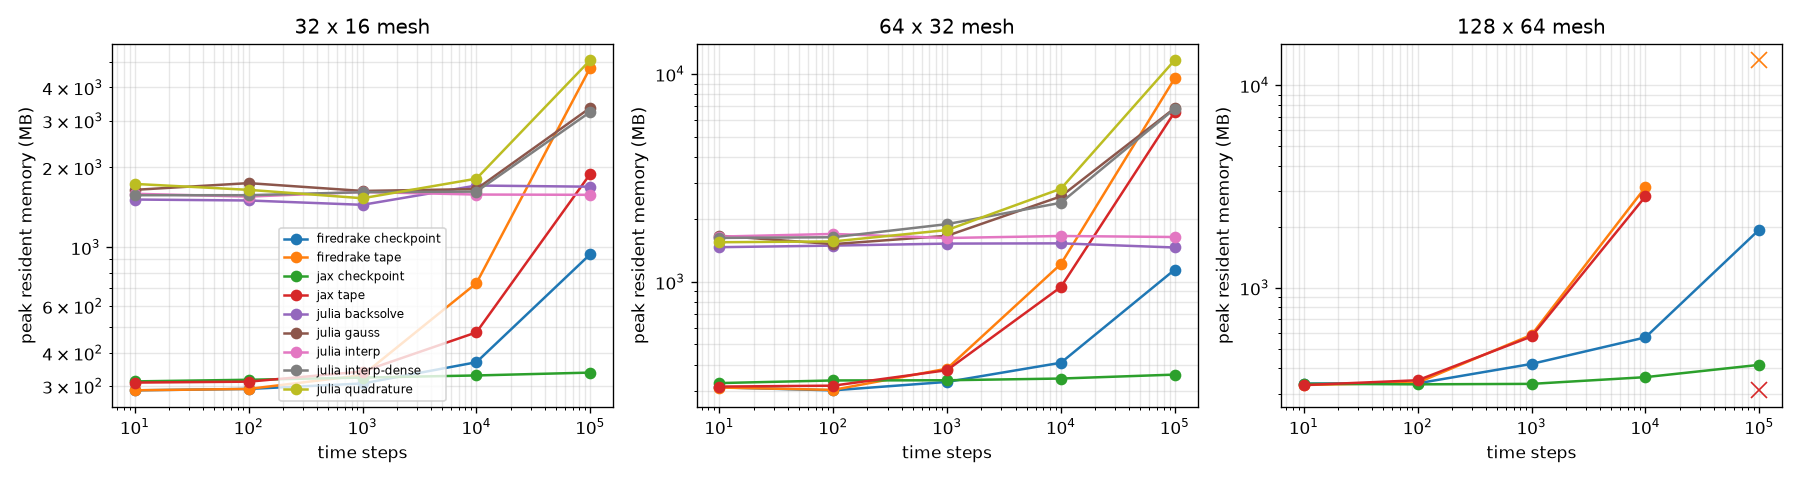
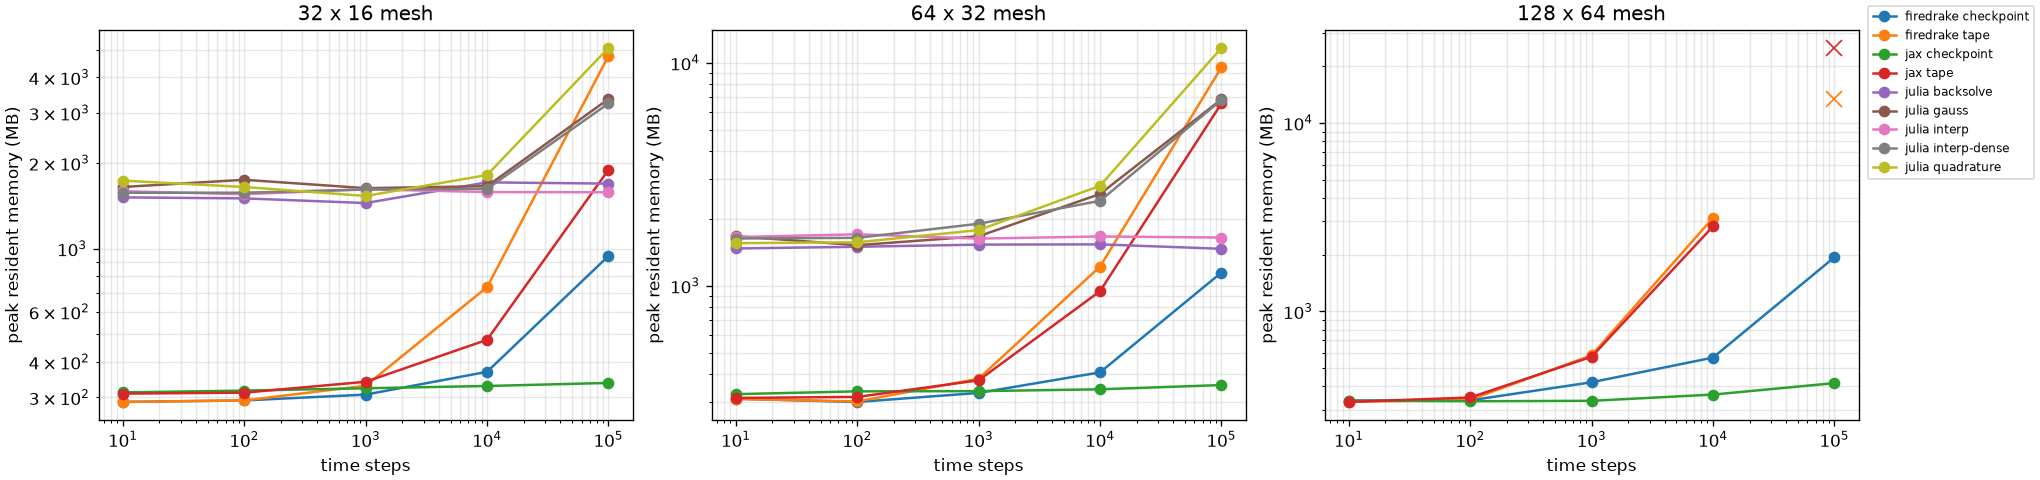
Revolve memory as slopes after an annotated warm-up; plot XLA refusals at the size asked for; units and ranges in the results text

diff --git a/spike/summarise.py b/spike/summarise.py
@@ -49,14 +49,20 @@ def discrete(nx, ny, steps):
     return _exact[(nx, ny, steps)]
 
 
+def refused_mb(d):
+    """The size XLA asked for when it refused a run up front (it never reached that peak), else None."""
+    m = re.search(r"Out of memory allocating (\d+) bytes", str(d.get("error", "")))
+    return int(m.group(1)) / 2**20 if m else None
+
+
 def mem_cell(d):
     if d is None:
         return "-"
     pk = peak(d)
     if not d.get("ok"):
         e = str(d.get("error", ""))
-        if (m := re.search(r"Out of memory allocating (\d+) bytes", e)):  # XLA refuses up front, with the size
-            return f"out of memory: needs {int(m.group(1)) / 2**30:.1f} GB"
+        if (need := refused_mb(d)) is not None:
+            return f"out of memory: needs {need / 1024:.1f} GB"
         why = "killed" if "killed" in e else "failed"
         return f"{why}{f' at {pk / 1024:.1f} GB' if pk else ''}"
     base = d.get("baseline_rss_mb")
@@ -105,7 +111,9 @@ for nx, ny in meshes:
             f"{e:.1e}" if (e := err(cases[k].get(s))) is not None else "-" for s in steps_all) + " |")
 
 if fdchecks:
-    lines += ["\n## Gradient against finite differences of the same backend's forward (16 x 8 mesh, 100 steps)\n",
+    runs = {(d["nx"], d["ny"], d["steps"]) for d in fdchecks.values() if "nx" in d}  # a killed run's stub has none
+    where = "; ".join(f"{nx} x {ny} mesh, {st} steps" for nx, ny, st in sorted(runs))
+    lines += [f"\n## Gradient against finite differences of the same backend's forward ({where})\n",
               "| backend | strategy | grad . d | central FD | relative difference |", "|---|---|---|---|---|"]
     for (b, s), d in sorted(fdchecks.items()):
         if d.get("ok") and d.get("fd_dir"):
@@ -156,7 +164,8 @@ try:
                                 ("err", "relative error vs discrete exact dJ (triangle: > 1e3)",
                                  "gradient_error.png"),
                                 ("time", "gradient wall time (s)", "time.png")):
-        fig, axes = plt.subplots(1, len(meshes), figsize=(5 * len(meshes), 4), squeeze=False)
+        fig, axes = plt.subplots(1, len(meshes), figsize=(5 * len(meshes) + 2, 4), squeeze=False,
+                                 layout="constrained")
         for ax, (nx, ny) in zip(axes[0], meshes):
             for k in sorted(cases):
                 if (k[2], k[3]) != (nx, ny):
@@ -164,14 +173,14 @@ try:
                 xs, ys, xk, yk = [], [], [], []
                 for s, d in sorted(cases[k].items()):
                     if what == "mem":
-                        v = peak(d)
+                        v = refused_mb(d) or peak(d)  # a refusal is drawn at the size it asked for
                         (xs if d.get("ok") else xk).append(s)
                         (ys if d.get("ok") else yk).append(v if v else math.nan)
                     elif what == "err" and d.get("ok") and "dJ_uniform" in d:
                         xs.append(s); ys.append(max(abs(d["dJ_uniform"] / discrete(nx, ny, s) - 1), 1e-16))
                     elif what == "time" and d.get("ok") and "warm_s" in d:
                         xs.append(s); ys.append(d["warm_s"])
-                # A blown-up error (backsolve reaches 1e289) breaks log-axis ticks: draw it at the cap
+                # A blown-up error (backsolve's 5.3e289) breaks log-axis ticks: draw it at the cap
                 over = [i for i, y in enumerate(ys) if what == "err" and not (y <= CAP)]
                 ys = [CAP if i in over else y for i, y in enumerate(ys)]
                 line, = ax.loglog(xs, ys, "o-", label=f"{k[0]} {k[1]}")
@@ -184,8 +193,7 @@ try:
             ax.set_xlabel("time steps")
             ax.set_ylabel(ylabel)
             ax.grid(True, which="both", alpha=0.3)
-        axes[0][0].legend(fontsize=7)
-        fig.tight_layout()
+        fig.legend(*axes[0][0].get_legend_handles_labels(), loc="outside right upper", fontsize=7)
         fig.savefig(out / fname, dpi=120)
         plt.close(fig)
 except ImportError:

diff --git a/repro/pyadjoint_checkpoint_memory.py b/repro/pyadjoint_checkpoint_memory.py
@@ -1,17 +1,16 @@
 # Where pyadjoint's memory goes with and without Revolve checkpointing, on the spike's Firedrake backend.
 #
-#   for m in tape checkpoint checkpoint-gc; do
+#   for m in tape checkpoint checkpoint-gc; do for n in 1000 4000; do
 #     docker run --rm -v "$PWD":/work -w /work firedrakeproject/firedrake-vanilla-default:2026.10.0 \
-#       python3 repro/pyadjoint_checkpoint_memory.py $m 4000
-#   done
+#       python3 repro/pyadjoint_checkpoint_memory.py $m $n
+#   done; done
 #
-# One mode per process, since the peak is the process's high-water mark. It prints the peak RSS growth over a
-# compiled 5-step run, the gradient, and how many tape variables still hold a stored state or an adjoint value after
-# the derivative. A third argument `trace` adds the Python heap's share (tracemalloc, which inflates the peak).
-# With Revolve (ceil(sqrt(steps)) snapshots) no per-step state is held, yet memory still grows with the step count:
-# the tape records three blocks per step, and the reverse sweep's garbage waits for the collector
-# (gc_timestep_frequency trades that for time). The default tape holds every step's state and, after the
-# derivative, an adjoint value for every step as well.
+# One mode and step count per process, since the peak is the process's high-water mark, measured over a 10-step
+# annotated derivative in the same mode (so compilation is outside it). The growth has a part that does not depend
+# on the step count, so the cost per step is the slope between two step counts. It also prints how many tape
+# variables still hold a stored state or an adjoint value after the derivative; a third argument `trace` adds the
+# Python heap (tracemalloc, which inflates the peak, so take peaks from runs without it).
+# With Revolve (ceil(sqrt(steps)) snapshots) no per-step state is held, yet memory still grows with the step count.
 
 import gc
 import math
@@ -33,25 +32,35 @@ from spike.problem import Problem  # noqa: E402
 mode = sys.argv[1]  # tape, checkpoint, or checkpoint-gc (collect garbage every 50 steps)
 steps = int(sys.argv[2]) if len(sys.argv) > 2 else 4000
 h = Heat(Problem(nx=32, ny=16))
-h.run(Function(h.D).assign(1.0), 5)
 
 
 def peak_mb():
     return resource.getrusage(resource.RUSAGE_SELF).ru_maxrss / 1024
 
 
-tape = get_working_tape()
-tape.clear_tape()
-gc.collect()
-base = peak_mb()
-rho = Function(h.D).assign(1.0)
-stepper = None
-if mode.startswith("checkpoint"):
-    kw = {"gc_timestep_frequency": 50} if mode == "checkpoint-gc" else {}
-    tape.enable_checkpointing(MultistageCheckpointSchedule(steps, math.ceil(math.sqrt(steps)), 0), **kw)
-    stepper = tape.timestepper
-elif mode != "tape":
+if mode not in ("tape", "checkpoint", "checkpoint-gc"):
     raise ValueError(mode)
+
+
+def start(n):
+    """A clean tape for n steps in this mode; returns the control and the time stepper."""
+    tape.clear_tape()
+    gc.collect()
+    if mode.startswith("checkpoint"):
+        kw = {"gc_timestep_frequency": 50} if mode == "checkpoint-gc" else {}
+        tape.enable_checkpointing(MultistageCheckpointSchedule(n, math.ceil(math.sqrt(n)), 0), **kw)
+        return Function(h.D).assign(1.0), tape.timestepper
+    return Function(h.D).assign(1.0), None
+
+
+tape = get_working_tape()
+rho, stepper = start(10)  # warm-up: compiles the forward and adjoint forms
+continue_annotation()
+J = h.run(rho, 10, stepper)
+pause_annotation()
+ReducedFunctional(J, Control(rho)).derivative()
+rho, stepper = start(steps)
+base = peak_mb()
 trace = sys.argv[3:] == ["trace"]
 if trace:
     tracemalloc.start()

diff --git a/docs/log.md b/docs/log.md
@@ -48,16 +48,19 @@
 ## 2026-11-20
 
 - CI run 1 (results/ci-run-1, run 44586316772): every case ran; the summary job failed while plotting because
-  BacksolveAdjoint's error reached 5e289 at 1e5 steps on 32 x 16 and broke matplotlib's log-axis ticks (errors above
-  1e3 are now drawn as a triangle at the cap). Full tape at 1e5 steps: JAX +1.6 GB (32 x 16) and +6.3 GB (64 x 32),
-  and on 128 x 64 XLA refuses up front (it asks for 26.2e9 bytes); pyadjoint +4.5 and +9.2 GB, killed at 13 GB on
-  128 x 64. JAX checkpointing within +102 MB at 1.6-1.8 times the tape's time. Gradients of JAX and pyadjoint agree
-  with the exact discrete gradient to 2e-11 or better everywhere.
-- pyadjoint's Revolve does not give flat memory: +0.66, +0.86 and +1.6 GB at 1e5 steps on the three meshes (against
-  +4.5, +9.2 and over 13 GB for its tape), at 2.2-3.3 times the tape's time. repro/pyadjoint_checkpoint_memory.py
-  (4000 steps, 32 x 16, Firedrake 2026.10.0, pyadjoint 2026.10.0, checkpoint_schedules 1.0.4): with Revolve 3 of
-  the tape's 12005 variables hold a state after the derivative (the tape: 8004, plus 8002 adjoint values), yet the
-  peak grows by 12.5 KB/step (tape 47 KB/step). The tape still records three blocks per step (about 5 KB/step of
-  Python objects, by tracemalloc), and the reverse sweep's garbage waits for the collector: gc_timestep_frequency=50
-  brings the growth to 7.5 KB/step at twice the time, with the same gradient to 13 digits. So the time-dependent
-  benchmark should report memory against step count for checkpointed runs too, not assume they are flat.
+  BacksolveAdjoint's error reached 5.3e289 at 1e5 steps on 32 x 16 and broke matplotlib's log-axis ticks (errors
+  above 1e3 are now drawn as a triangle at the cap). Full tape at 1e5 steps: JAX +1.5 GB (32 x 16) and +6.1 GB
+  (64 x 32), and on 128 x 64 XLA refuses up front (it asks for 26216674456 bytes, 24.4 GB); pyadjoint +4.4 and
+  +9.0 GB, killed at 13 GB on 128 x 64. JAX checkpointing stays within +102 MB on every mesh, at 1.6-1.8 times the
+  tape's time at 1e5 steps on the two meshes where the tape finished. Gradients of JAX and pyadjoint agree with the
+  exact discrete gradient to 2.1e-11 or better everywhere. (GB here is 1024 MB, as in the tables.)
+- pyadjoint's Revolve does not give flat memory: +0.64, +0.83 and +1.6 GB at 1e5 steps on the three meshes
+  (against +4.4, +9.0 and over 13 GB for its tape), at 2.2-3.3 times the tape's time; on 32 x 16 it grows 6.5
+  KB/step from 1e4 to 1e5 steps. repro/pyadjoint_checkpoint_memory.py (32 x 16, Firedrake 2026.10.0, pyadjoint
+  2026.10.0, checkpoint_schedules 1.0.4; slopes between 1000 and 4000 steps, after a 10-step annotated warm-up):
+  with Revolve 3 of the tape's variables hold a state after the derivative, at any step count (the full tape:
+  every step's state and adjoint value), yet the peak grows 6.8 KB/step plus about 14 MB that does not depend on
+  the step count (full tape 45.7 KB/step). Collecting garbage every 50 steps (gc_timestep_frequency=50) removes the
+  fixed part and leaves 5.5 KB/step, at twice the time, with the same gradient to 13 digits; the Python heap then
+  grows 4.3 KB/step (tracemalloc), so most of what remains is the tape's three blocks per step, which no setting
+  here removes. The time-dependent benchmark should report memory against step count for checkpointed runs too.

diff --git a/README.md b/README.md
@@ -59,15 +59,20 @@ plots (the run's `summary` artifact). Saved runs go in `results/`.
 
 ## Results
 
-From CI run 1 ([results/ci-run-1/summary.md](results/ci-run-1/summary.md); notes in docs/log.md):
+From CI run 1 ([results/ci-run-1/summary.md](results/ci-run-1/summary.md); notes in docs/log.md; GB = 1024 MB):
 
-- A full tape grows linearly with the step count: at 1e5 steps JAX needs +1.6 GB on 32 x 16 and +6.3 GB on
-  64 x 32 and refuses 128 x 64 up front; pyadjoint needs +4.5 and +9.2 GB and is killed at 13 GB on 128 x 64.
-- JAX's checkpointing stays within +102 MB at 1.6-1.8 times the time. pyadjoint's Revolve stores no per-step state
-  but still grows (+0.7 to +1.6 GB at 1e5 steps, 2.2-3.3 times the time): its tape keeps three blocks per step and
-  the reverse sweep's garbage is collected late (repro/pyadjoint_checkpoint_memory.py).
-- JAX and pyadjoint match the exact discrete gradient to 2e-11 or better; SciMLSensitivity's continuous adjoints
-  are O(dt) off (1e-5 at 1e5 steps), BacksolveAdjoint is 89-100 % off and overflows at 1e5 steps, and the
-  checkpointed InterpolatingAdjoint re-solves its intervals adaptively (repro/sciml_checkpoint_resolve.jl).
+- A full tape grows linearly with the step count: at 1e5 steps JAX needs +1.5 GB on 32 x 16 and +6.1 GB on
+  64 x 32 and refuses 128 x 64 up front (it asks for 24.4 GB); pyadjoint needs +4.4 and +9.0 GB and is killed at
+  13 GB on 128 x 64.
+- JAX's checkpointing stays within +102 MB on every mesh (1.6-1.8 times the tape's time at 1e5 steps).
+  pyadjoint's Revolve stores no per-step state but still grows (+0.64 to +1.6 GB at 1e5 steps, 2.2-3.3 times the
+  time): its tape keeps three blocks per step, about 5 KB/step that garbage collection does not remove
+  (repro/pyadjoint_checkpoint_memory.py).
+- JAX and pyadjoint match the exact discrete gradient to 2.1e-11 or better; SciMLSensitivity's continuous adjoints
+  are O(dt) off (1e-5 to 2e-5 at 1e5 steps), and BacksolveAdjoint is 89-100 % off (5.3e289 at 1e5 steps on 32 x 16).
 - k(T): with one Newton iteration per step, unrolled differentiation is 7-22 times closer to the converged gradient
   than implicit differentiation; from three iterations both agree with it to 3e-14 or better.
+
+Separately, repro/sciml_checkpoint_resolve.jl shows that SciMLSensitivity's checkpointed InterpolatingAdjoint
+re-solves each checkpoint interval adaptively, ignoring a fixed dt: saving only the end state leaves its gradient
+about 0.7 % off at every step count. With checkpoints at isqrt(steps) times, as in the CI sweep, the effect is small.

diff --git a/results/ci-run-1/README.md b/results/ci-run-1/README.md
@@ -3,12 +3,13 @@
 [Run 44586316772](https://github.com/singhharsh1708/transient-heat-spike/actions/runs/44586316772), commit ce64b6d,
 2026-11-19, GitHub's `ubuntu-latest` CPU runners (4 cores, 16 GB), one process per case, killed at 13 GB.
 All 23 experiment jobs passed. The run's `summary` job failed while plotting: backsolve's 5e289 error broke the
-log axis (fixed in e9abd23). `summary.md` and the plots here were made from the run's artifacts by
-`python spike/summarise.py results/ci-run-1 results/ci-run-1`, which is the summary that job would have printed.
+log axis. `summary.md` and the plots here were made from the run's artifacts with the current script,
+`python spike/summarise.py results/ci-run-1 results/ci-run-1`.
 
 - `summary.md`: memory, gradient time and gradient error per backend, strategy, mesh and step count; FD checks;
   the k(T) follow-on.
-- `memory.png`, `gradient_error.png`, `time.png`: the same, plotted (a triangle marks an error above 1e3).
+- `memory.png`, `gradient_error.png`, `time.png`: the same, plotted (a triangle marks an error above
+  1e3; a cross a failed case, at the memory it reached, or for an XLA refusal at the size it asked for).
 - `<backend>-<strategy>-<nx>x<ny>-<steps>.json`: one record per case, as each case wrote it.
 - `fdcheck-*.json` (16 x 8 mesh, 100 steps; the run named them after their job's mesh, renamed here), `kt-*.json`: the
   finite-difference checks and the k(T) cases.
